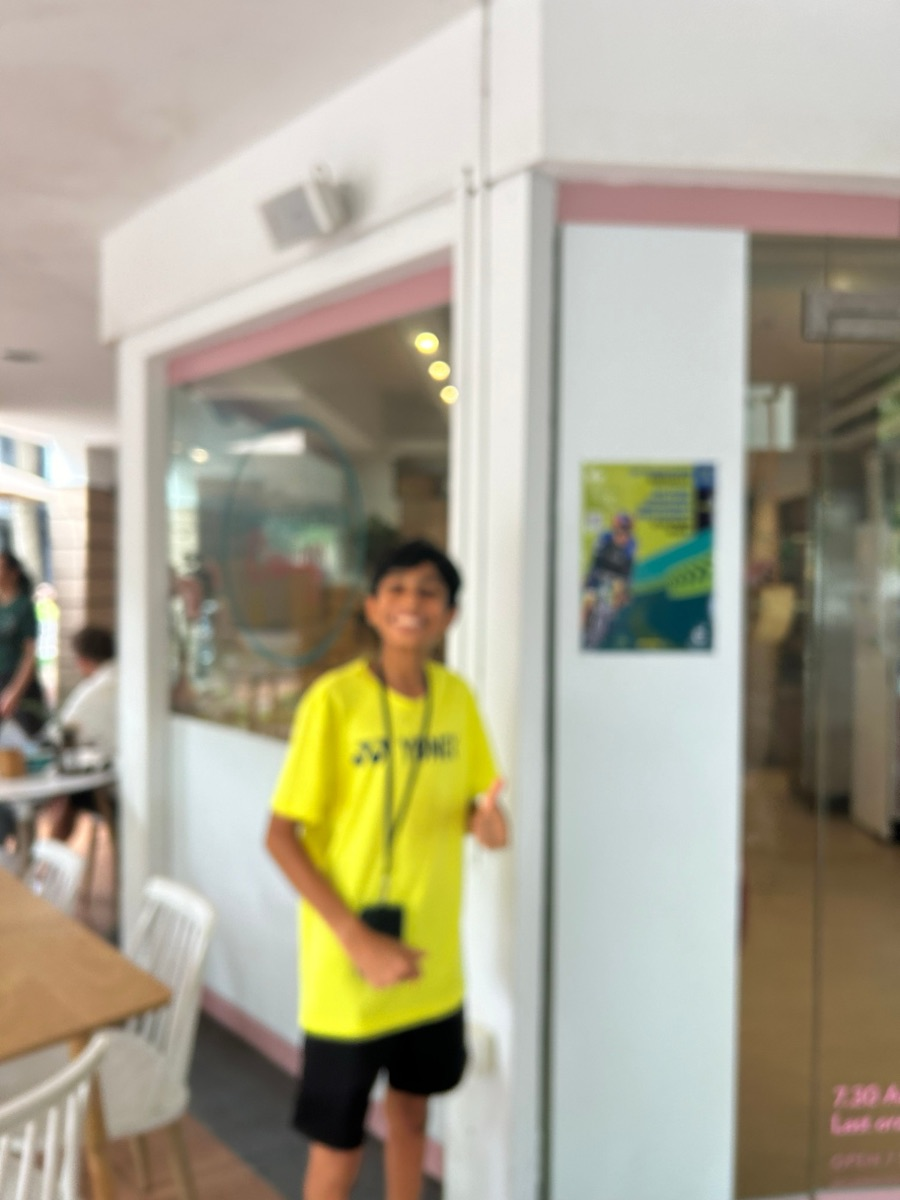
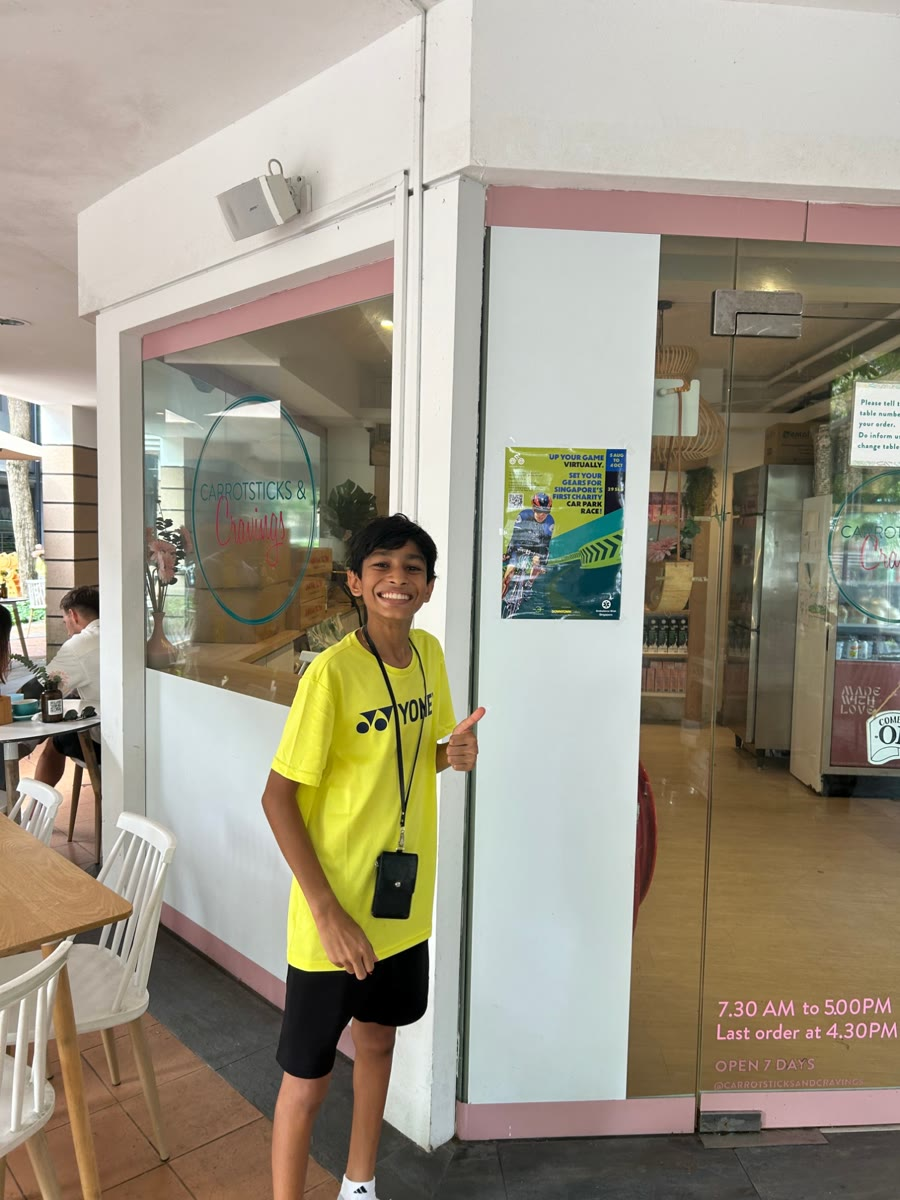
Replace blurry poster photo with a sharp one

diff --git a/work.html b/work.html
@@ -97,7 +97,7 @@
           <figure class="spec w4"><img src="images/photos/wish-award.webp" width="2000" height="1122" loading="lazy" style="--ar:16/9" alt="Receiving the New Service Club Award on stage at the Executive Service Council Celebration of Service 2026"><figcaption>Celebration of Service <i>2026</i></figcaption></figure>
           <figure class="spec w2"><img src="images/photos/wish-plaque.jpg" width="900" height="840" loading="lazy" style="--ar:15/14" alt="The New Service Clubs Umbrella Award 2026 plaque with the SAS eagle"><figcaption>The award plaque</figcaption></figure>
           <figure class="spec w6"><img src="images/photos/wish-assembly.webp" width="1934" height="1278" loading="lazy" style="--ar:21/9" alt="Standing up at the Honors assembly as the Outstanding Volunteerism and Service Awards are read out"><figcaption>Called up at the Honors assembly</figcaption></figure>
-          <figure class="spec w2"><img src="images/photos/wish-poster-me.jpg" width="900" height="1200" loading="lazy" style="--ar:3/4" alt="A thumbs up beside a Cycle of Peace poster at a café in 2024"><figcaption>Where it started: Cycle of Peace 2024</figcaption></figure>
+          <figure class="spec w2"><img src="images/photos/wish-poster-me.jpg" width="900" height="1200" loading="lazy" style="--ar:3/4" alt="Rishabh giving a thumbs up beside a Cycle of Peace poster outside a café, 2024"><figcaption>Where it started: Cycle of Peace 2024</figcaption></figure>
           <figure class="spec w2"><img src="images/photos/wish-poster-tobys.jpg" width="1400" height="1050" loading="lazy" style="--ar:3/4" alt="A Cycle of Peace charity race poster beside the door of Toby's Estate at Robertson Quay"><figcaption>Posters around Robertson Quay</figcaption></figure>
           <figure class="spec w2"><img src="images/photos/wish-poster-cafe.jpg" width="1400" height="1050" loading="lazy" style="--ar:3/4;object-position:18% 50%" alt="A Cycle of Peace poster on the wall outside a café"><figcaption>my first time working with Ambulance Wish Singapore</figcaption></figure>
           <figure class="spec w3"><img src="images/photos/wish-team.jpg" width="1024" height="768" loading="lazy" alt="Project Wish members holding their volunteer shirts on a direct service trip"><figcaption>Direct service trip</figcaption></figure>

diff --git a/index.html b/index.html
@@ -40,7 +40,7 @@
       </div>
       <div class="pile" data-photos>
         <span class="hand note">Singapore · Class of 2027</span>
-        <figure class="spec p1"><img src="images/photos/wish-poster-me.jpg" width="900" height="1200" style="--ar:3/4" alt="A thumbs up beside a Cycle of Peace poster for Ambulance Wish Singapore, 2024"><figcaption>First time working with Ambulance Wish Singapore</figcaption></figure>
+        <figure class="spec p1"><img src="images/photos/wish-poster-me.jpg" width="900" height="1200" style="--ar:3/4" alt="Rishabh giving a thumbs up beside a Cycle of Peace poster for Ambulance Wish Singapore outside a café, 2024"><figcaption>First time working with Ambulance Wish Singapore</figcaption></figure>
         <figure class="spec p2"><img src="images/photos/ecobean-pitch.webp" width="1920" height="1440" alt="Pitching the EcoBean growing kit on stage at the JA Company of the Year Competition"><figcaption>Pitching EcoBean at JA nationals</figcaption></figure>
         <figure class="spec p3"><img src="images/photos/badminton.jpg" width="1400" height="1050" alt="The SAS badminton team with coaches in the school gym"><figcaption>the badminton team</figcaption></figure>
       </div>
